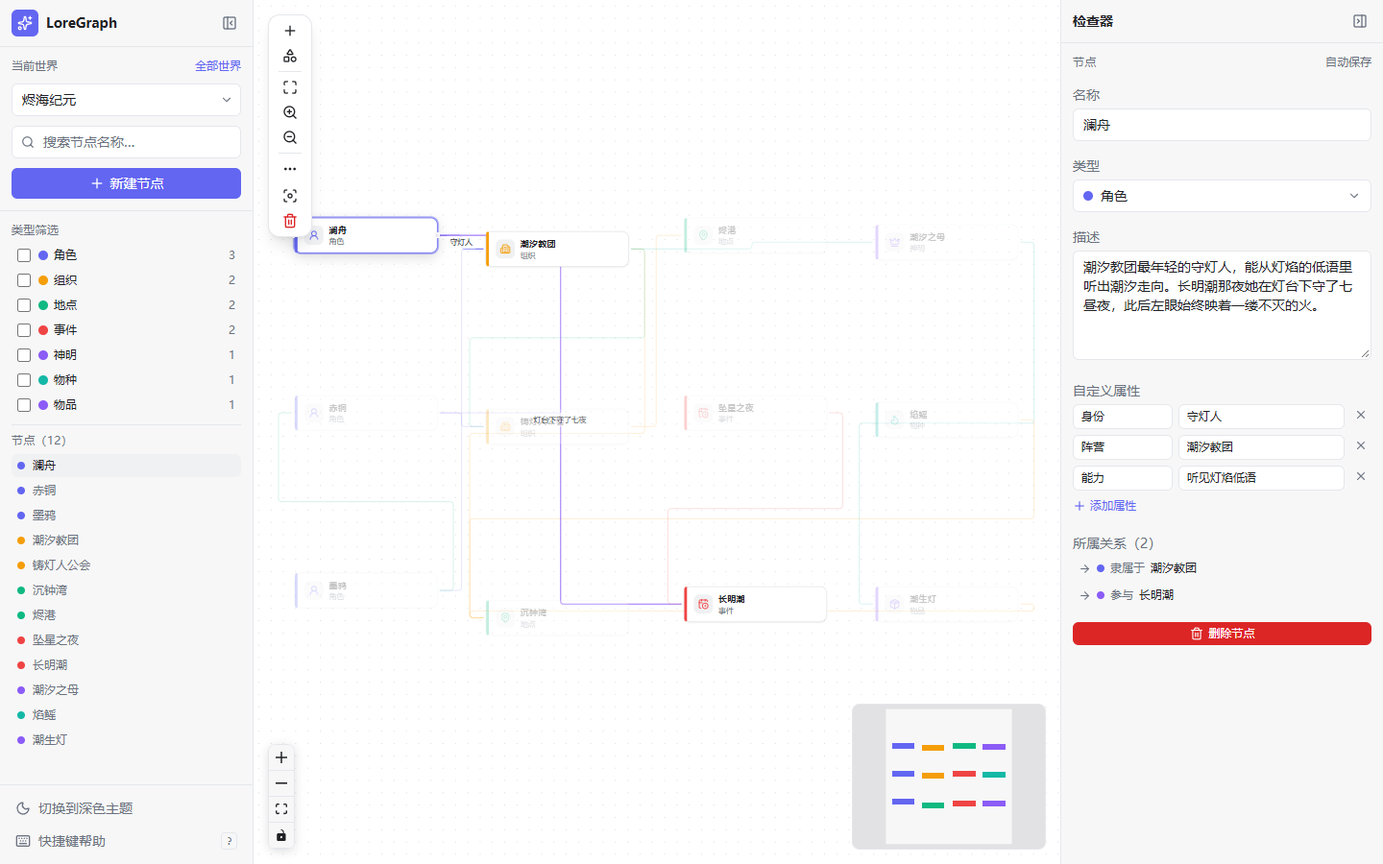
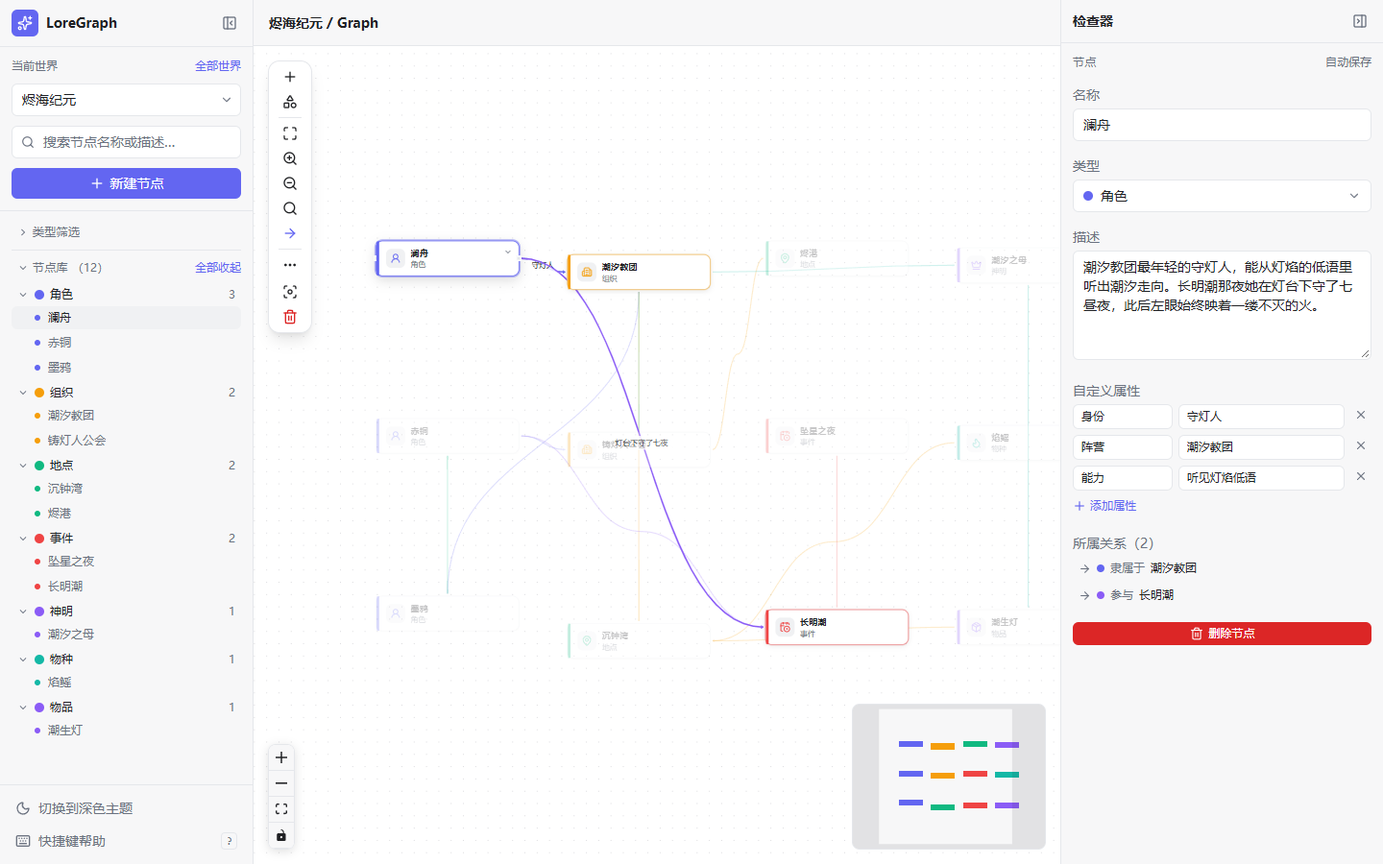
chore: 清理死代码与本地临时产物，同步 v0.3 文档
- 移除未被引用的 BaseInput / BaseSelect / ColorField 组件，以及仓储桶文件的死导出、
  main.css 中无类使用的颜色映射与未被读取的折叠默认值（合计 143 行）
- README / CONTRIBUTING / architecture / issue 模板补充 v0.3 界面特性，测试规模更正为
  320 个单元测试（34 个文件）与 79 个 E2E（18 个文件）
- 重拍 4 张文档截图，展示上下文标题栏与按类型分组的节点库
- 交接文档归档至 docs/archive，并修正归档后的相对链接

diff --git a/src/composables/useNodeCollapse.ts b/src/composables/useNodeCollapse.ts
@@ -2,16 +2,6 @@ import { computed, ref, toValue, watch, type ComputedRef, type MaybeRefOrGetter 
 import type { CollapseEdge } from '@/services/collapse'
 import { revealedCollapsedIds } from '@/services/collapse'
 
-/** 按世界保存的画布节点折叠偏好；只存节点 id，不进入节点模型与导出文件。 */
-export interface NodeCollapsePreference {
-  collapsedIds: string[]
-}
-
-/** 首次使用（无本地记录）时没有折叠节点。 */
-export const NODE_COLLAPSE_DEFAULTS: Readonly<NodeCollapsePreference> = {
-  collapsedIds: [],
-}
-
 const STORAGE_PREFIX = 'loregraph.node-collapse'
 
 /** 某个世界的折叠偏好存储键：折叠是视图状态，按世界隔离。 */

diff --git a/tests/unit/composables/node-collapse.spec.ts b/tests/unit/composables/node-collapse.spec.ts
@@ -1,7 +1,6 @@
 import { beforeEach, describe, expect, it, vi } from 'vitest'
 import { nextTick, ref } from 'vue'
 import {
-  NODE_COLLAPSE_DEFAULTS,
   nodeCollapseKey,
   sanitizeNodeCollapse,
   useNodeCollapse,
@@ -30,7 +29,6 @@ beforeEach(() => {
 describe('节点折叠偏好默认值与持久化', () => {
   it('默认没有折叠节点，也不写入存储', () => {
     const collapse = useNodeCollapse(UNIVERSE)
-    expect(NODE_COLLAPSE_DEFAULTS.collapsedIds).toEqual([])
     expect(collapse.collapsedIds.value).toEqual([])
     expect(collapse.isCollapsed('a')).toBe(false)
     expect(localStorage.getItem(nodeCollapseKey(UNIVERSE))).toBeNull()

diff --git a/src/styles/main.css b/src/styles/main.css
@@ -16,7 +16,6 @@
   --color-accent-fg: var(--accent-fg);
   --color-danger: var(--danger);
   --color-ring: var(--ring);
-  --color-graph-dot: var(--graph-dot);
 }
 
 html,

diff --git a/src/repositories/index.ts b/src/repositories/index.ts
@@ -1,2 +1,1 @@
 export { createDexieRepositories, DexieTransactionRunner } from './dexie'
-export { createMemoryRepositories } from './memory'

diff --git a/docs/archive/v0.3.0-workspace-refinement-handoff.zh-CN.md b/docs/archive/v0.3.0-workspace-refinement-handoff.zh-CN.md
@@ -1,3 +1,6 @@
+> **已归档（2026-11-02）：** 这是一次性的交接快照，状态描述早于当前代码，仅作历史记录保留。
+> 现行模块与行为以 [architecture.md](../architecture.md) 和 [CHANGELOG.md](../../CHANGELOG.md) 为准。
+
 # LoreGraph v0.3.0 — Workspace Refinement 交接
 
 > 状态快照：2026-11-01。LG-301 至 LG-308 已完成；下一步只剩 LG-309（P2，暂缓，等真实视图）。本文替代上一版“LG-305 待完成”的记录。
@@ -7,22 +10,22 @@
 - 技术栈：Vue 3、TypeScript、Vite、Pinia、Vue Flow、Tailwind CSS；本地优先，世界/节点/关系保存在 IndexedDB。
 - package 版本与最新 Changelog 仍为 0.2.0；本次 UI 迭代没有改数据库、导入格式、依赖或版本号。
 - LG-301 至 LG-305 已随 `c9bc062`、`259b48b`、`1a3fdac` 进入 `main`；LG-306 已随 `661a7fc` 提交（该提交由外部创建，本次未参与、未回退）。当前工作区只剩 LG-308 的未提交改动（见下）。不要 reset、checkout 或覆盖这些文件；继续前先查看 git status 和 diff。
-- LG-308 未提交清单：修改 [layout.service.ts](../src/services/layout.service.ts)、[graph.ts](../src/stores/graph.ts)、[GraphToolbar.vue](../src/components/graph/GraphToolbar.vue)、[layout.service.spec.ts](../tests/unit/services/layout.service.spec.ts)、[graph-layout.spec.ts](../tests/unit/stores/graph-layout.spec.ts)、[E2E graph-layout.spec.ts](../tests/e2e/graph-layout.spec.ts)、本文与 [architecture.md](architecture.md)；没有改 LG-306 的 LoreEdge / edge-lanes / GraphCanvas 实现。
+- LG-308 未提交清单：修改 [layout.service.ts](../../src/services/layout.service.ts)、[graph.ts](../../src/stores/graph.ts)、[GraphToolbar.vue](../../src/components/graph/GraphToolbar.vue)、[layout.service.spec.ts](../../tests/unit/services/layout.service.spec.ts)、[graph-layout.spec.ts](../../tests/unit/stores/graph-layout.spec.ts)、[E2E graph-layout.spec.ts](../../tests/e2e/graph-layout.spec.ts)、本文与 [architecture.md](../architecture.md)；没有改 LG-306 的 LoreEdge / edge-lanes / GraphCanvas 实现。
 - 开发服务：曾在 http://127.0.0.1:5173 验证；Playwright 自己在 4173 起 dev server，不要另开重复服务。
 
 ## 路线图状态
 
-| LG     | 原目标                   | 状态                 | 说明                                                                                                                                                                                                                                                                                                                                        |
-| ------ | ------------------------ | -------------------- | ------------------------------------------------------------------------------------------------------------------------------------------------------------------------------------------------------------------------------------------------------------------------------------------------------------------------------------------- |
-| LG-301 | 左侧节点库按类型分组     | 已完成               | 组头显示类型色标、名称和数量；单组及全部展开/收起；节点点击选择并定位。见 [Sidebar.vue](../src/components/layout/Sidebar.vue)。                                                                                                                                                                                                             |
-| LG-302 | 类型筛选区可折叠         | 已完成               | 作为独立的“类型筛选”区，默认收起；它控制画布节点可见性。                                                                                                                                                                                                                                                                                    |
-| LG-303 | 节点库可折叠             | 已完成               | 独立于筛选区，默认展开；列表不随画布类型过滤消失。搜索命中自动展开分组并高亮，清空搜索恢复手动折叠状态。折叠偏好按 universe ID 写入 localStorage，非数据库数据。见 [useSidebarPreferences.ts](../src/composables/useSidebarPreferences.ts)。                                                                                                |
-| LG-304 | 修复侧栏收起后的 UI 重叠 | 已完成               | 桌面三列 CSS Grid：侧栏 264px，收起 rail 56px，Inspector 336px，主画布因此增加 208px；收起 rail 上重复的新建图标已移除，只保留画布工具栏按钮。窄屏继续使用抽屉。见 [AppShell.vue](../src/components/layout/AppShell.vue)。                                                                                                                  |
-| LG-305 | 梳理 Workspace 区域结构  | 已完成               | Workspace 主区顶部新增 48px 上下文标题栏，显示“世界名 / Graph”，随世界切换与重命名更新；标题与画布为纵向 flex，画布占剩余高度。未加入 Graph/Timeline/Table/Map 视图切换。见 [WorkspaceView.vue](../src/views/WorkspaceView.vue)。                                                                                                           |
-| LG-306 | 优化节点与关系的视觉秩序 | 已完成（2026-11-01） | 同一对节点间的双向/重复关系按 id 稳定分道，连线绕到节点整体上方/下方，标签分居两侧、不再完全重叠；唯一关系沿用原 smoothstep 外观；选中关系最后绘制。未改数据模型、坐标语义与侧栏，跨类型关系保持可见。未承诺消除全图交叉。见 [edge-lanes.ts](../src/components/graph/edge-lanes.ts)、[LoreEdge.vue](../src/components/graph/LoreEdge.vue)。 |
-| LG-307 | Focus Mode               | 已有                 | v0.2 已支持 F/工具栏进入、退出和 1-hop 邻域；侧栏导航额外处理了隐藏目标：先退出 Focus Mode，再解除冲突类型筛选、选择并定位。见 [GraphCanvas.vue](../src/components/graph/GraphCanvas.vue) 与 [WorkspaceView.vue](../src/views/WorkspaceView.vue)。                                                                                          |
-| LG-308 | 按节点类型聚集布局       | 已完成（2026-11-01） | 更多菜单新增「自动布局（按类型）」；按节点 `type` 分簇，簇内复用 force，再按真实包围盒排簇；跨类型关系不删不藏；仅点击触发，沿用首快照/撤销/拖动失效，不自动覆盖手动布局。见 [layout.service.ts](../src/services/layout.service.ts)、[GraphToolbar.vue](../src/components/graph/GraphToolbar.vue)。                                         |
-| LG-309 | Workspace 视图切换预留   | 暂缓（P2，未开始）   | 尚无 Graph/Timeline/Table/Map 视图切换。标题栏只显示当前视图名，不渲染切换控件；只有真实视图存在后再加切换入口，避免占位视图，因此当前不排期。                                                                                                                                                                                              |
+| LG     | 原目标                   | 状态                 | 说明                                                                                                                                                                                                                                                                                                                                              |
+| ------ | ------------------------ | -------------------- | ------------------------------------------------------------------------------------------------------------------------------------------------------------------------------------------------------------------------------------------------------------------------------------------------------------------------------------------------- |
+| LG-301 | 左侧节点库按类型分组     | 已完成               | 组头显示类型色标、名称和数量；单组及全部展开/收起；节点点击选择并定位。见 [Sidebar.vue](../../src/components/layout/Sidebar.vue)。                                                                                                                                                                                                                |
+| LG-302 | 类型筛选区可折叠         | 已完成               | 作为独立的“类型筛选”区，默认收起；它控制画布节点可见性。                                                                                                                                                                                                                                                                                          |
+| LG-303 | 节点库可折叠             | 已完成               | 独立于筛选区，默认展开；列表不随画布类型过滤消失。搜索命中自动展开分组并高亮，清空搜索恢复手动折叠状态。折叠偏好按 universe ID 写入 localStorage，非数据库数据。见 [useSidebarPreferences.ts](../../src/composables/useSidebarPreferences.ts)。                                                                                                   |
+| LG-304 | 修复侧栏收起后的 UI 重叠 | 已完成               | 桌面三列 CSS Grid：侧栏 264px，收起 rail 56px，Inspector 336px，主画布因此增加 208px；收起 rail 上重复的新建图标已移除，只保留画布工具栏按钮。窄屏继续使用抽屉。见 [AppShell.vue](../../src/components/layout/AppShell.vue)。                                                                                                                     |
+| LG-305 | 梳理 Workspace 区域结构  | 已完成               | Workspace 主区顶部新增 48px 上下文标题栏，显示“世界名 / Graph”，随世界切换与重命名更新；标题与画布为纵向 flex，画布占剩余高度。未加入 Graph/Timeline/Table/Map 视图切换。见 [WorkspaceView.vue](../../src/views/WorkspaceView.vue)。                                                                                                              |
+| LG-306 | 优化节点与关系的视觉秩序 | 已完成（2026-11-01） | 同一对节点间的双向/重复关系按 id 稳定分道，连线绕到节点整体上方/下方，标签分居两侧、不再完全重叠；唯一关系沿用原 smoothstep 外观；选中关系最后绘制。未改数据模型、坐标语义与侧栏，跨类型关系保持可见。未承诺消除全图交叉。见 [edge-lanes.ts](../../src/components/graph/edge-lanes.ts)、[LoreEdge.vue](../../src/components/graph/LoreEdge.vue)。 |
+| LG-307 | Focus Mode               | 已有                 | v0.2 已支持 F/工具栏进入、退出和 1-hop 邻域；侧栏导航额外处理了隐藏目标：先退出 Focus Mode，再解除冲突类型筛选、选择并定位。见 [GraphCanvas.vue](../../src/components/graph/GraphCanvas.vue) 与 [WorkspaceView.vue](../../src/views/WorkspaceView.vue)。                                                                                          |
+| LG-308 | 按节点类型聚集布局       | 已完成（2026-11-01） | 更多菜单新增「自动布局（按类型）」；按节点 `type` 分簇，簇内复用 force，再按真实包围盒排簇；跨类型关系不删不藏；仅点击触发，沿用首快照/撤销/拖动失效，不自动覆盖手动布局。见 [layout.service.ts](../../src/services/layout.service.ts)、[GraphToolbar.vue](../../src/components/graph/GraphToolbar.vue)。                                         |
+| LG-309 | Workspace 视图切换预留   | 暂缓（P2，未开始）   | 尚无 Graph/Timeline/Table/Map 视图切换。标题栏只显示当前视图名，不渲染切换控件；只有真实视图存在后再加切换入口，避免占位视图，因此当前不排期。                                                                                                                                                                                                    |
 
 ## LG-305 实现细节
 
@@ -61,8 +64,8 @@
 
 ## 测试与验证（LG-306）
 
-- [edge-lanes.spec.ts](../tests/unit/components/edge-lanes.spec.ts)：16 个用例，覆盖车道分配、gap 14 + 上下错位 (96,128) 的路径采样、并集外侧绕行、重叠/贴边退化 smoothstep、标签锚点间距、坐标有限性与选中绘制顺序。
-- [graph-edge-organization.spec.ts](../tests/e2e/graph-edge-organization.spec.ts)：4 个用例覆盖双向、近距/错位路由与重叠退化回退；端点重叠退化不承诺不穿节点。
+- [edge-lanes.spec.ts](../../tests/unit/components/edge-lanes.spec.ts)：16 个用例，覆盖车道分配、gap 14 + 上下错位 (96,128) 的路径采样、并集外侧绕行、重叠/贴边退化 smoothstep、标签锚点间距、坐标有限性与选中绘制顺序。
+- [graph-edge-organization.spec.ts](../../tests/e2e/graph-edge-organization.spec.ts)：4 个用例覆盖双向、近距/错位路由与重叠退化回退；端点重叠退化不承诺不穿节点。
 - `npx vitest run tests/unit/components/edge-lanes.spec.ts`：16/16 通过。
 - `npm run test:unit`：29 个文件、252 个测试通过（236 基线 + LG-306 修复 6 + LG-308 10）。
 - `PLAYWRIGHT_CHANNEL=msedge npx playwright test tests/e2e/graph-edge-organization.spec.ts`：4/4 通过；本机未安装 playwright 的 chromium headless shell，按既有约定复用系统 Edge。
@@ -96,8 +99,8 @@
 
 ## 测试与验证（LG-308）
 
-- 扩展单测：[layout.service.spec.ts](../tests/unit/services/layout.service.spec.ts) 增加 6 个 clustered 用例；[graph-layout.spec.ts](../tests/unit/stores/graph-layout.spec.ts) 的模式矩阵加入 clustered，并新增「只走一次批量接口」「同类型聚簇」「恢复后坐标/关系不变」3 个用例（`it.each` 扩模式额外 +1）。
-- 扩展 E2E：[tests/e2e/graph-layout.spec.ts](../tests/e2e/graph-layout.spec.ts) 新增「LG-308 按类型聚集布局」2 条，与本文件原 8 条一起运行；连线步骤在「对话框没打开 / 关掉却没生成边」时重试一次，避免拖拽交互抖动造成假失败。
+- 扩展单测：[layout.service.spec.ts](../../tests/unit/services/layout.service.spec.ts) 增加 6 个 clustered 用例；[graph-layout.spec.ts](../../tests/unit/stores/graph-layout.spec.ts) 的模式矩阵加入 clustered，并新增「只走一次批量接口」「同类型聚簇」「恢复后坐标/关系不变」3 个用例（`it.each` 扩模式额外 +1）。
+- 扩展 E2E：[tests/e2e/graph-layout.spec.ts](../../tests/e2e/graph-layout.spec.ts) 新增「LG-308 按类型聚集布局」2 条，与本文件原 8 条一起运行；连线步骤在「对话框没打开 / 关掉却没生成边」时重试一次，避免拖拽交互抖动造成假失败。
 - `npx vitest run tests/unit/services/layout.service.spec.ts tests/unit/stores/graph-layout.spec.ts`：28/28 通过。
 - `npm run test:unit`：29 个文件、252 个测试通过（236 基线 + LG-306 修复 6 + LG-308 10）。
 - `PLAYWRIGHT_CHANNEL=msedge npx playwright test tests/e2e/graph-layout.spec.ts`：10/10 通过，约 1.2 分钟；原有力导向 / 层级 / 恢复 8 条无回归。
@@ -108,7 +111,7 @@
 
 ## 测试与验证（LG-305 收尾时）
 
-- 新增 [workspace-context-header.spec.ts](../tests/e2e/workspace-context-header.spec.ts) 三个用例：
+- 新增 [workspace-context-header.spec.ts](../../tests/e2e/workspace-context-header.spec.ts) 三个用例：
   1. 标题随世界切换更新，`reload` 后保持当前世界；
   2. 1440×900 桌面：标题高 48px、画布紧接标题并占满余高、主区左边界 264px / 宽 840px、Inspector 可见；
   3. 800×800 窄屏：主区 x=0 宽 800px、标题 48px、画布占余高、抽屉入口可见。

diff --git a/docs/architecture.md b/docs/architecture.md
@@ -118,6 +118,7 @@ Services own the business rules and are constructed with a `Repositories` bundle
 | `layout.service.ts`   | Computes automatic layout coordinates with elkjs in `force` (default), `layered`, and `clustered` (grouped by node type) modes. Positions only; it never reads or writes storage, and elkjs is imported on first use.           |
 | `autosave.ts`         | Per-key debounced autosave used by the graph store.                                                                                                                                                                             |
 | `search.ts`           | Pure helpers for name search and type filtering, used by the sidebar node list.                                                                                                                                                 |
+| `collapse.ts`         | Pure helpers for node folding: walks the edge list to find the descendants hidden by a folded node and the hidden count per folded node, and reveals the collapsed ancestors that hide a target node.                           |
 | `neighborhood.ts`     | Pure 1-hop neighbourhood of a selection: the node, its direct neighbours and incident edges, or a relation and its two endpoints. Ignores dangling edges; backs adjacency highlighting and Focus Mode.                          |
 | `errors.ts`           | `LoreGraphError` base class plus `GraphError` and `TypeInUseError`.                                                                                                                                                             |
 | `index.ts`            | Composition root: `services` singleton wired to Dexie (`createDexieRepositories(createLoreDatabase())`).                                                                                                                        |
@@ -144,6 +145,12 @@ need one narrow behaviour.
 - `composables/useTheme.ts`, `useToast.ts`, `useShortcuts.ts`, `useGraphViewport.ts` —
   read-only theme access, notification helpers (including the 8-second undo toast), the global
   keyboard shortcuts, and viewport fit/zoom/centre-preservation operations for the canvas.
+- `composables/useNodeCollapse.ts` — the fold state of the canvas: which nodes are folded, per
+  world, persisted in `localStorage` under `loregraph.node-collapse.<universeId>` and sanitised on
+  read; folding is view state and never enters the data model or the export files.
+- `composables/useSidebarPreferences.ts` — collapsed groups of the sidebar node library, also per
+  world and kept in `localStorage`. A search expands matching groups temporarily without
+  overwriting the stored preference.
 
 ### Views and components (`src/views/`, `src/components/`)
 
@@ -152,16 +159,20 @@ need one narrow behaviour.
   actions (with confirmation); the import preview lists validation issues before anything is
   written; theme toggle; loads a built-in Chinese fantasy sample world on first run when the
   library is empty.
-- `/u/:universeId` — workspace: a three-pane shell (sidebar, graph canvas, inspector). The
-  sidebar holds the world switcher, node search, create-node action, type filters with counts,
-  and the filtered node list. The canvas renders nodes and relations, creates relations by
-  dragging from a node handle into a dialog (relation type + optional label), validates
-  self-loops and duplicates, highlights search matches, fades everything outside the selected
-  element's 1-hop neighbourhood, and offers fit-view, zoom, Focus Mode, delete, and type-manager
-  actions plus a 更多 menu with all three layout modes, 恢复布局前位置, and graph-snippet
-  import/export. The inspector edits the selected node or edge, lists a node's incident
-  relations, and shows world statistics plus world export/import actions when nothing is
-  selected. Keyboard shortcuts: `N` new node, `F` enter/exit Focus Mode,
+- `/u/:universeId` — workspace: a three-pane shell (sidebar, graph canvas, inspector) under a
+  fixed 48 px context header that shows the current world name and view. The sidebar collapses to
+  a 56 px rail, holds the world switcher, node search, a collapsible type-filter section with
+  counts, and the node list grouped by type (colour, label, count per group, per-group and
+  whole-list collapse). The canvas renders nodes and relations, creates relations by dragging
+  from a node handle into a dialog (relation type + optional label), validates self-loops and
+  duplicates, highlights search matches, fades everything outside the selected element's 1-hop
+  neighbourhood, folds a node's descendants on demand, and offers fit-view, zoom, Focus Mode,
+  delete, a global direction-arrow switch, and type-manager actions plus a 更多 menu with all
+  three layout modes (force, layered, clustered by type), 恢复布局前位置, and graph-snippet
+  import/export. Relations between the same pair of nodes are spread onto separate lanes by
+  `edge-lanes.ts`, so parallel and mutual relations stay distinguishable. The inspector edits the
+  selected node or edge, lists a node's incident relations, and shows world statistics plus world
+  export/import actions when nothing is selected. Keyboard shortcuts: `N` new node, `F` enter/exit Focus Mode,
   `Delete`/`Backspace` delete selection, `Esc` cancel/close and leave Focus Mode,
   `Ctrl/⌘+K` focus search, `?` shortcut help.
 - `/:pathMatch(.*)*` — not found page.
@@ -169,8 +180,9 @@ need one narrow behaviour.
 Components are grouped as `common/` (primitives, color/icon pickers, confirm, help, and import
 preview dialogs), `layout/` (app shell, sidebar, inspector, panel toggles), `editor/` (node/edge
 editors, property rows, type select), `universe/` (the shared world create/edit form), and
-`graph/` (`GraphCanvas`, `LoreNode`, toolbar, create-node/relation dialogs, graph import/export
-dialogs, and the type manager). The canvas is built on `@vue-flow/core`
+`graph/` (`GraphCanvas`, `LoreNode`, `LoreEdge` with its lane geometry in `edge-lanes.ts`, the
+toolbar, the search panel, create-node/relation dialogs, graph import/export dialogs, and the
+type manager). The canvas is built on `@vue-flow/core`
 with the background, controls, and minimap add-ons; nodes are one custom Vue Flow node type
 mapped from store state, and dragging a node writes its snapped position back to the store on
 drag stop. Below 900 px the side panels become overlay drawers.

diff --git a/README.md b/README.md
@@ -54,6 +54,19 @@ All screenshots are captured at 1440×900.
 - **Search and filters.** Find nodes by name (case-insensitive substring), browse the matches
   in the sidebar node list, see them highlighted on the canvas, and show or hide nodes by type
   with per-type counts.
+- **Grouped node library.** The sidebar lists nodes grouped by type — type colour, label, and
+  count per group — with per-group and whole-list collapse. The collapse preference is kept per
+  world in `localStorage`, and a search temporarily expands the groups that match. The type
+  filter is a separate collapsible section that controls canvas visibility, not the list.
+- **Node folding.** A node with outgoing relations can be folded: its descendants and the
+  relations reaching them leave the canvas, and a badge on the folded node counts what is hidden.
+  Folding is view state, stored per world; it never enters the data model or the export files.
+- **Readable relations.** Parallel and mutual relations between the same pair of nodes are spread
+  onto separate lanes with labels on either side instead of stacking on one path, and a toolbar
+  switch turns the direction arrows on or off for every relation at once.
+- **Workspace header and clustering.** A context header names the current world and view;
+  更多 → 自动布局（按类型）clusters nodes by type before arranging the clusters, and cross-type
+  relations stay visible.
 - **Adjacency highlighting and Focus Mode.** Selecting a node keeps it, its direct neighbours,
   and its relations sharp while everything else fades; selecting a relation keeps it and its two
   endpoints. Press `F` (or the toolbar button) to show only that node and its direct neighbours,
@@ -99,7 +112,7 @@ All screenshots are captured at 1440×900.
 | State        | Pinia                                                          |
 | Routing      | Vue Router 5 (HTML5 history mode)                              |
 | Graph canvas | Vue Flow (`@vue-flow/core` with background, controls, minimap) |
-| Layout       | elkjs (force-directed and layered)                             |
+| Layout       | elkjs (force-directed, layered, clustered by type)             |
 | Persistence  | Dexie 4 over IndexedDB (database `loregraph`)                  |
 | Validation   | Zod 4                                                          |
 | Icons        | Lucide (`@lucide/vue`)                                         |
@@ -131,8 +144,8 @@ npm run lint
 npm run test:unit
 ```
 
-The suite contains **204 unit tests across 27 files** (Vitest with jsdom and
-`fake-indexeddb`) and **58 end-to-end tests across 12 files** (Playwright, Chromium). Install
+The suite contains **320 unit tests across 34 files** (Vitest with jsdom and
+`fake-indexeddb`) and **79 end-to-end tests across 18 files** (Playwright, Chromium). Install
 the browser once and run the E2E suite:
 
 ```bash

diff --git a/CONTRIBUTING.md b/CONTRIBUTING.md
@@ -61,12 +61,13 @@ The dev server starts on <http://127.0.0.1:5173>.
 │  ├─ repositories/          Persistence interfaces + memory and Dexie adapters
 │  ├─ services/              Business rules, validation, import/export, autosave
 │  ├─ stores/                Pinia stores: UI state and graph state
-│  ├─ composables/           useTheme, useToast, useShortcuts
+│  ├─ composables/           useTheme, useToast, useShortcuts, useGraphViewport,
+│  │                         useNodeCollapse, useSidebarPreferences
 │  ├─ components/
 │  │  ├─ common/             Reusable primitives and dialogs
 │  │  ├─ layout/             App shell, sidebar, inspector, panel toggles
 │  │  ├─ editor/             Node/edge editors, property rows, type select
-│  │  └─ graph/              Vue Flow canvas and custom node rendering
+│  │  └─ graph/              Vue Flow canvas, custom nodes/edges, lanes, toolbar
 │  ├─ views/                 Route-level views
 │  ├─ router/                Vue Router configuration
 │  ├─ styles/                Tailwind entry, design tokens, theme variables
@@ -78,7 +79,7 @@ The dev server starts on <http://127.0.0.1:5173>.
 └─ .github/                  CI workflow, issue and pull request templates
 ```
 
-`src/assets/` is intentionally absent in v0.1: the application ships no binary assets of its own,
+`src/assets/` is intentionally absent: the application ships no binary assets of its own,
 so the favicon lives in `public/` and icons come from `@lucide/vue`. Create that directory when the
 project needs its own images or fonts, and document it here at the same time.
 
@@ -108,9 +109,9 @@ business rules belong in services, and persistence details belong in repositorie
 
 ## Testing
 
-- Unit and integration tests live in `tests/unit/**/*.spec.ts` (**100 tests across 13 files**)
+- Unit and integration tests live in `tests/unit/**/*.spec.ts` (**320 tests across 34 files**)
   and run on Vitest with jsdom and `fake-indexeddb` (see `tests/unit/setup.ts`).
-- End-to-end tests live in `tests/e2e/**/*.spec.ts` (**33 tests across 8 files**) and run on
+- End-to-end tests live in `tests/e2e/**/*.spec.ts` (**79 tests across 18 files**) and run on
   Playwright with Chromium. Install the browser once with
   `npx playwright install chromium`.
 - Service tests can be built on the in-memory repositories:

diff --git a/CHANGELOG.md b/CHANGELOG.md
@@ -5,6 +5,36 @@ All notable changes to this project are documented in this file.
 The format is based on [Keep a Changelog](https://keepachangelog.com/en/1.1.0/), and this project
 adheres to [Semantic Versioning](https://semver.org/spec/v2.0.0.html).
 
+## [Unreleased]
+
+### Added
+
+- Workspace header: a fixed 48 px context bar shows the current world name and view (世界名 /
+  Graph); the main area is a vertical flex column, so the canvas fills the height below it.
+- Grouped node library: sidebar nodes are grouped by type, each group header showing the type
+  colour, label, and count, with per-group and whole-list collapse. The collapse preference is
+  kept per world in `localStorage`; a search temporarily expands the matching groups.
+- Node folding: a node with outgoing relations can be folded, hiding its descendants and the
+  relations reaching them, with a badge counting what is hidden. Folding is view state and never
+  enters the data model or the export files.
+- Relation lanes: parallel and mutual relations between the same pair of nodes are routed onto
+  separate lanes with labels on either side instead of stacking on one path.
+- Clustered layout: 更多 → 自动布局（按类型）clusters nodes by type before arranging the clusters;
+  cross-type relations stay visible.
+- A global switch in the graph toolbar that shows or hides direction arrows on every relation.
+
+### Changed
+
+- Desktop layout is a three-column grid (sidebar 264 px, collapsed rail 56 px, inspector 336 px),
+  so collapsing a panel widens the canvas instead of overlapping it; below 900 px both panels are
+  still overlay drawers.
+
+### Removed
+
+- Unused scaffolding components `BaseInput`, `BaseSelect`, and `ColorField`, an unused
+  `createMemoryRepositories` re-export in the repositories barrel, a Tailwind colour mapping with
+  no class using it, and an unused node-collapse defaults constant.
+
 ## [0.2.0] - 2026-11-01
 
 **Breaking:** world exports now declare `format: "loregraph.universe"` instead of `"loregraph"`,
